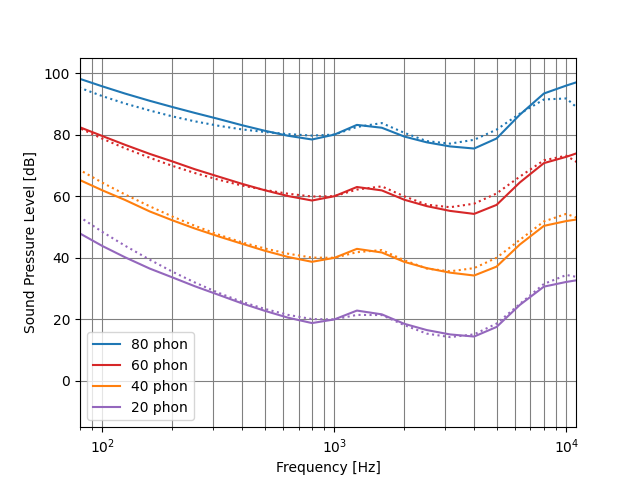
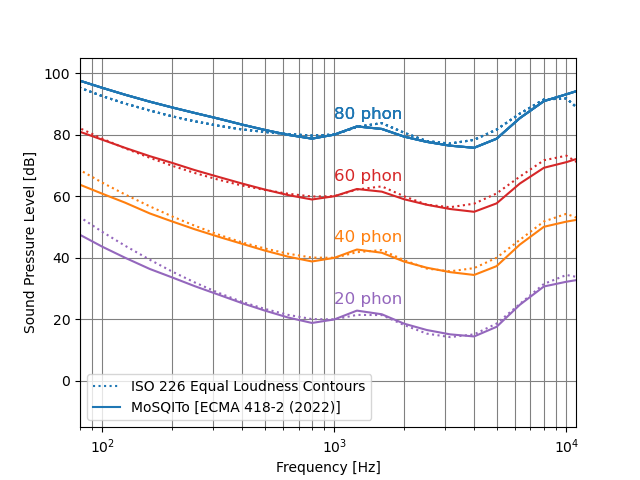
Changes Hearing Model validation script
Changes the validation script 'hearing_model_validation' to clarify some of the calculations, and adds functions that calculate the time-dependent loudness 'N(l)' and the single-value loudness 'N' as per Eqs. 116 and 117 of the ECMA-418-2, 2nd Ed (2022). The standard specifies a power average (and not a common 'mean' operator) to obtain the single-value loudness, and a missing factor of 'delta_z = 0.5' is added in the integration of the specific loudness over all critical bands.

diff --git a/validations/sq_metrics/loudness_ecma/hearing_model_validation.py b/validations/sq_metrics/loudness_ecma/hearing_model_validation.py
@@ -17,18 +17,54 @@ from mosqito.utils.sine_wave_generator import (
 )
 
 
-def comp_loudness_wrapper(spl, freq=1000, n_1kHz=0):
-    """Return the difference between the loudness of a tone
-    at <freq> Hz and <spl> dB and a tone at 1 KHz and <spl> dB
+
+def comp_time_dependent_loudness_ecma(n_specific_per_seg):
+    """
+    Computes time-dependent loudness N(L) over time by integrating the
+    time-dependent specific loudness N'(z, L) returned by the
+    'loudness_ecma' function over the critical bands.
+    
+    This is described by Eq. 116 in ECMA-418-2, 2nd Ed (2022).
+    """
+    
+    delta_z = 0.5
+    
+    n_time = np.sum(n_specific_per_seg, axis=0)*delta_z
+    
+    return n_time
+
+
+def comp_single_value_loudness_ecma(n_specific_per_seg):
+    """
+    Computes a single-value loudness N by taking a power average of the
+    time-dependent loudness N(L).
+    
+    This is described by Eq. 117 in ECMA-418-2, 2nd Ed (2022).
+    """
+    
+    n_time = comp_time_dependent_loudness_ecma(n_specific_per_seg)
+    
+    e = 1/np.log10(2)
+    n =  (np.mean(n_time**e))**(1/e)
+    
+    return n
+
+
+def comp_loudness_wrapper(spl, freq, phon_1kHz):
+    """Return the difference between the loudness of a tone at <freq> Hz
+    and <spl> dB SPL and a reference tone at 1 KHz and <phon_1kHz> dB SPL.
 
     Parameters
     ----------
     spl: float
         Test tone Sound Pressure Level [dB]
+    
     freq: float
-        Test tone frequency [Hz]
-    n_1kHz: float
-        Total loudness value of a 1 kHz / <spl> dB test tone
+        Test tone frequency [Hz]    
+    
+    phon_1kHz: float
+        SPL of the 1 kHz reference tone [dB]
+    
 
     Returns
     -------
@@ -37,21 +73,27 @@ def comp_loudness_wrapper(spl, freq=1000, n_1kHz=0):
 
     """
 
-    # test signal generation
-    duration = 0.25
+    # signal generation
+    duration = 0.5
     fs = 48000.0
-    signal, _ = sine_wave_generator(fs, duration, spl, freq)
-
+    
+    signal, _ = sine_wave_generator(fs, duration, spl, freq)    
+    signal_1kHz, _ = sine_wave_generator(fs, duration,
+                                         spl_value=phon_1kHz,
+                                         freq=1000)
+    
     # compute loudness for the test signal
     n_specific, _ = loudness_ecma(signal)
     n_specific = np.array(n_specific)
-    n_tot = np.sum(n_specific, axis=0)
-    n_tot_mean = np.mean(n_tot[5:])
+    n_freq = comp_single_value_loudness_ecma(n_specific)
+    
+    # Compute loudness for 1 kHz tone at 'phon_1kHz' dB SPL
+    n_specific_1khz, _ = loudness_ecma(signal_1kHz)
+    n_specific_1khz = np.array(n_specific_1khz)
+    n_1kHz = comp_single_value_loudness_ecma(n_specific_1khz)
 
-    # Return n_tot_mean - n_1kHz
-    n_diff = n_tot_mean - n_1kHz
-
-    return n_diff
+    # Return n_freq - n_1kHz
+    return n_freq - n_1kHz
 
 
 def hearing_model_validation():
@@ -64,7 +106,7 @@ def hearing_model_validation():
             )
 
     phons = [80, 60, 40, 20]
-
+    
     col_vec = ["tab:blue", "tab:red", "tab:orange", "tab:purple", "tab:green"]
 
     for phon, col in zip(phons, col_vec):
@@ -74,7 +116,7 @@ def hearing_model_validation():
         spl_iso_vec, freq_vec = equal_loudness_contours(phon)
 
         # Compute ecma loudness of a 1 kHz tone
-        n_1kHz = comp_loudness_wrapper(spl=phon)
+        #n_1kHz = comp_loudness_wrapper(spl=phon)
         spl_ecma_vec = np.zeros(spl_iso_vec.shape)
         spl_ecma_vec[17] = phon
 
@@ -83,29 +125,43 @@ def hearing_model_validation():
             if i != 17:
                 spl = spl_iso_vec[i]
                 freq = freq_vec[i]
+                
+                print(f'\tFreq: {freq} Hz')
+                
                 # ... find the spl of the tone that produces the
                 # same loudness as the 1 kHz tone
                 spl_ecma_vec[i] = root_scalar(
                     comp_loudness_wrapper,
                     x0=spl,
-                    args=(freq, n_1kHz),
-                    bracket=[-5, 120],
+                    args=(freq, phon),
+                    bracket=[-5, 120]
                 ).root
+                
         # Plot the ISO 226 equal loudness contour
         plt.semilogx(freq_vec, spl_iso_vec, ":", color=col)
+        
         # Plot the ECMA equal contour loudness
         if phon == 0:
             label = "lower treshold of hearing"
         else:
             label = str(phon) + " phon"
-        plt.semilogx(freq_vec[5:], spl_ecma_vec[5:], color=col, label=label)
+            
+        plt.semilogx(freq_vec[5:], spl_ecma_vec[5:], color=col)
+        plt.text(1000, phon+5, label, fontsize=12, color=col)
 
     plt.xlim(left=80, right=11000)
     plt.ylim((-15, 105))
     plt.ylabel("Sound Pressure Level [dB]")
     plt.xlabel("Frequency [Hz]")
     plt.grid(which="both", linestyle="-", color="grey")
-    plt.legend()
+    
+    # create custom artist for legend
+    from matplotlib.lines import Line2D
+    
+    lines = [Line2D([0], [0], linestyle=':'), Line2D([0], [0], linestyle='-')]
+    
+    plt.legend(handles=lines,
+               labels=['ISO 226 Equal Loudness Contours', 'MoSQITo [ECMA 418-2 (2022)]'])
     plt.savefig(
         "./validations/sq_metrics/loudness_ecma/output/"
         + "ecma_hearing_model_validation.png",
